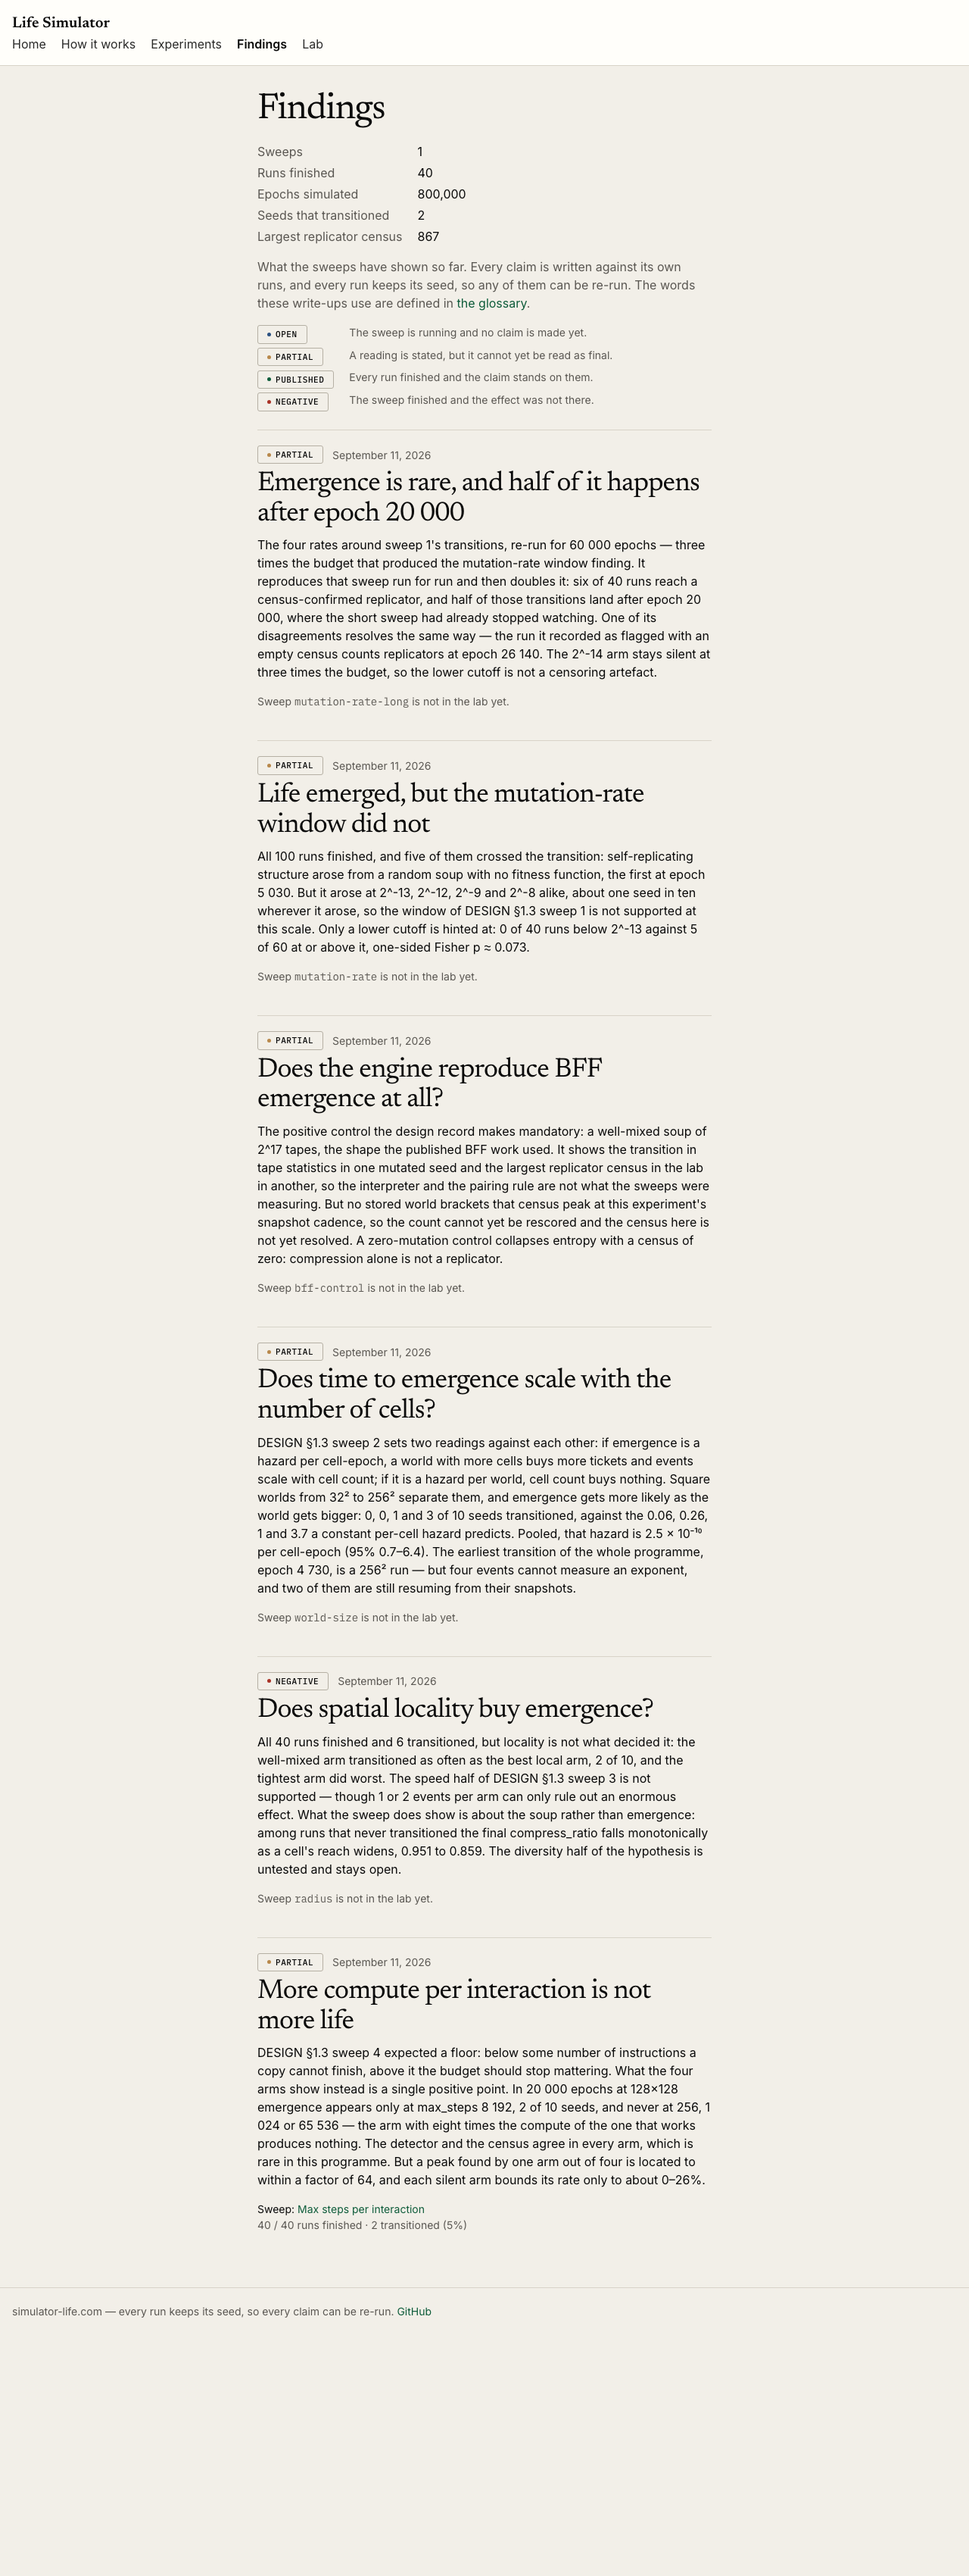
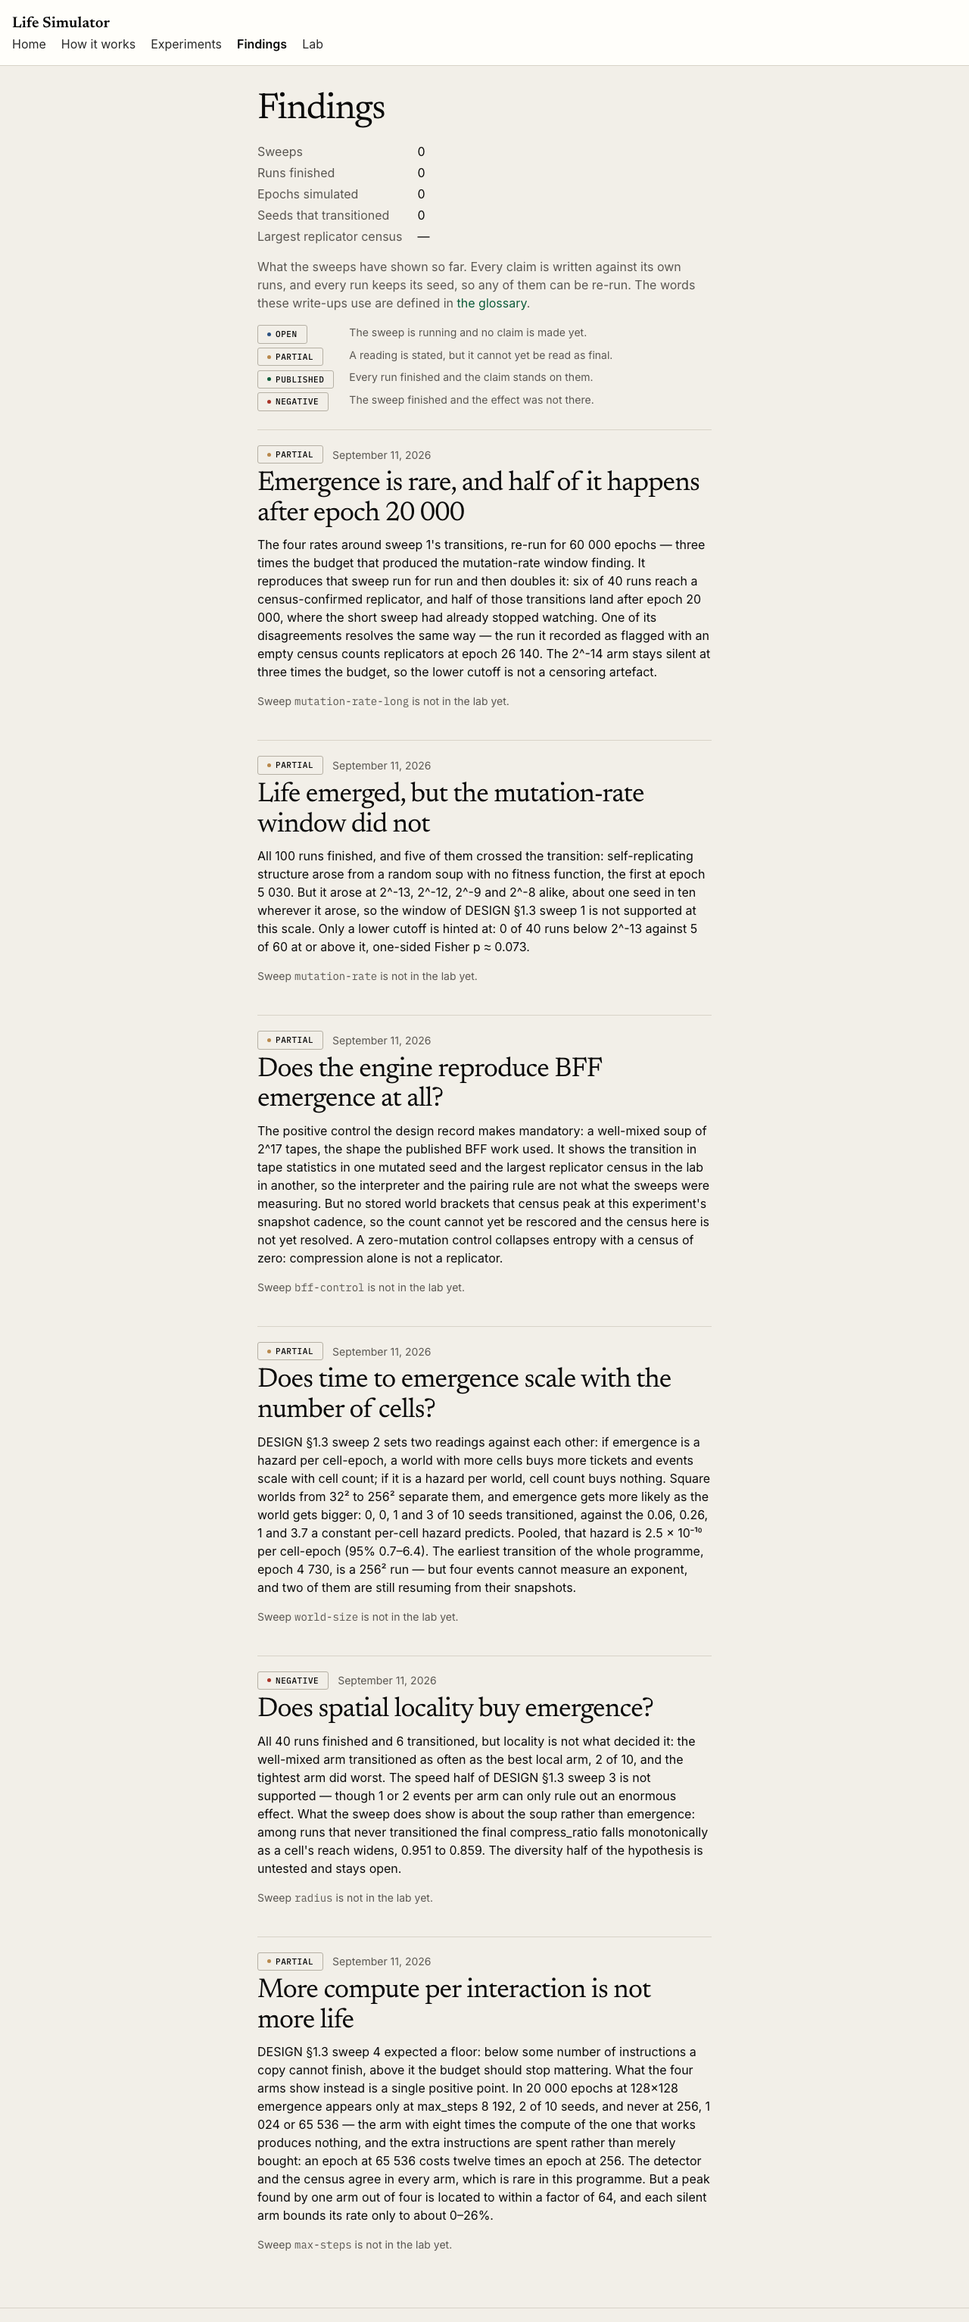
Read the max-steps cost from the sample stream instead of the log
The published cost paragraph attributed the 256 arm's throughput to the 65 536
arm and concluded from it that the budget was bought and not spent. It is spent:
measured between consecutive sample writes, with gaps over 300 s dropped and
under a comparable shared load, the arms run at 74.4, 62.6, 29.5 and 6.0 epochs
per second, so an epoch at 65 536 costs about twelve times an epoch at 256 and
the marginal price of a step barely moves over three octaves. Both transitioned
runs halved or worse at their own crossing under lower concurrency than before
it, which is the same fact from the other side.

The copy-rate blips were miscounted as ten and called evenly spread; there are
twelve and they climb with the budget, 1, 2, 4 and 5. Both figures now live in
the arm data the page tabulates, so the request specs read the prose against the
table rather than against itself.

The fortieth run has since finished, so the write-up no longer speaks of a run on
the clock and seed 5 is quoted final; partial now rests on the 20 000-epoch
censoring and the unresolved BFF control, as the world-size finding does.

Claude-Session: https://claude.ai/code/session_012YZTTdy66rDPQrPUahxLq9

Changed region(s): [[0.25, 0.0, 0.7188, 0.9605], [0.0, 0.0, 0.125, 0.031], [0.1562, 0.0, 0.2188, 0.031]]

diff --git a/spec/requests/findings_spec.rb b/spec/requests/findings_spec.rb
@@ -658,12 +658,39 @@ RSpec.describe "Findings", type: :request do
         expect(response.body).to include(finding_path("mutation-rate-window"))
       end
 
-      it "states the one arm's cost and refuses to invent the others" do
+      it "prices an epoch of every arm and makes the prose quote its own table" do
+        get finding_path(budget)
+
+        rows = response.parsed_body.css("table.data-table").last.css("tbody tr")
+        rates = rows.map { |row| row.css("td")[1].text.squish.to_f }
+
+        expect(rates).to eq([74.4, 62.6, 29.5, 6.0])
+        expect(rates).to eq(rates.sort.reverse)
+        expect(response.body.squish)
+          .to include("about #{(rates.first / rates.last).round} times what an epoch at 256 costs",
+                      "3.3, 2.5 and 2.3 microseconds per epoch",
+                      "the marginal price would fall away as the ceiling rose; it does not")
+      end
+
+      it "counts the copy-rate blips per arm and reads them as rising with the budget" do
+        get finding_path(budget)
+
+        blips = response.parsed_body.css("table.data-table").last.css("tbody tr")
+                        .map { |row| row.css("td").last.text.squish.to_i }
+
+        expect(blips).to eq([1, 2, 4, 5])
+        expect(response.body.squish)
+          .to include("#{blips.sum} of those 38 runs do show a",
+                      "4 of the 8 silent runs at 8 192",
+                      "not noise spread evenly over the arms")
+      end
+
+      it "reads the transitioned runs as the slow ones rather than as contention" do
         get finding_path(budget)
 
         expect(response.body.squish)
-          .to include("17.6 to 20.7 epochs per second", "1 001 to 1 134 seconds per run",
-                      "no honest per-epoch rate can be read for them here")
+          .to include("31.0 epochs per second before epoch 5 030 and 14.7 after it",
+                      "9.2 and 8.6 against 12.5 and 11.0")
       end
 
       it "names the finer grid as a proposal rather than a promise" do
@@ -702,6 +729,7 @@ RSpec.describe "Findings", type: :request do
           get finding_path(budget)
 
           expect(response.body.squish).to include("1 of the 40 runs have reached 20 000 epochs")
+            .and include("recorded once every one of the 40 had finished")
           expect(response.body).to include(%(class="chart-cited"), run_path(run))
         end
       end

diff --git a/app/models/findings/registry.rb b/app/models/findings/registry.rb
@@ -95,10 +95,12 @@ module Findings
                  "the four arms show instead is a single positive point. In 20 000 epochs " \
                  "at 128×128 emergence appears only at max_steps 8 192, 2 of 10 seeds, and " \
                  "never at 256, 1 024 or 65 536 — the arm with eight times the compute of " \
-                 "the one that works produces nothing. The detector and the census agree " \
-                 "in every arm, which is rare in this programme. But a peak found by one " \
-                 "arm out of four is located to within a factor of 64, and each silent arm " \
-                 "bounds its rate only to about 0–26%."
+                 "the one that works produces nothing, and the extra instructions are spent " \
+                 "rather than merely bought: an epoch at 65 536 costs twelve times an epoch " \
+                 "at 256. The detector and the census agree in every arm, which is rare in " \
+                 "this programme. But a peak found by one arm out of four is located to " \
+                 "within a factor of 64, and each silent arm bounds its rate only to " \
+                 "about 0–26%."
       )
     ].freeze
 

diff --git a/spec/models/findings/registry_spec.rb b/spec/models/findings/registry_spec.rb
@@ -133,12 +133,13 @@ RSpec.describe Findings::Registry do
     expect(described_class.for_experiment("unwritten")).to be_empty
   end
 
-  it "reads the max-steps sweep as partial while one of its runs is still on the clock" do
+  it "holds the finished max-steps sweep at partial, censored rather than complete" do
     finding = described_class.find("interaction-budget")
 
     expect(finding).to have_attributes(experiment_slug: "max-steps", status: :partial)
     expect(finding.summary).to include("emergence appears only at max_steps 8 192",
                                        "never at 256, 1 024 or 65 536",
+                                       "an epoch at 65 536 costs twelve times an epoch at 256",
                                        "located to within a factor of 64")
   end
 

diff --git a/docs/design_record.md b/docs/design_record.md
@@ -118,24 +118,34 @@ Dated entries that revise `docs/DESIGN.md`. Newest last.
   runs whose transition the guard would no longer accept, for a human to decide on.
 - 2026-09-11 — **`max-steps`, §1.3 item 4, read as non-monotone in the interaction budget.**
   Four budgets two octaves apart (2^8, 2^10, 2^13, 2^16) on a 128×128 world at mutation
-  rate 2^-13, 10 seeds each, 20 000 epochs; 39 of 40 terminal at the time of writing, the
-  fortieth already transitioned and census-confirmed. Emergence appears in one arm only:
-  8 192 steps, 2 of 10 seeds — seed 1 at epoch 5 030 (first cell 4 890, census peak 867 at
-  5 080, copy_rate peak 0.0474, entropy floor 4.85 bits, final compress_ratio 0.26) and
-  seed 5 at 7 000 (first cell 7 030, census peak 108 at 9 580, still running). **The floor
-  reading of item 4 is not supported**: 65 536 steps, eight times the compute of the only
-  arm that works, produces nothing, and 256 and 1 024 are not part-way to a collapse but
-  untouched soup (entropy never below 7.77 against a 7.94 baseline, final compress_ratio
-  0.921–0.984, 16 379–16 384 of 16 384 tapes distinct; single-cell copy_rate blips of
-  6.1e-05 in 10 runs never yield a replicator). Detector and census **agree in every arm** —
-  zero disagreements, unlike sweeps 1 and 2. The 8 192 arm is the engine's default budget,
-  so it repeats the `mutation-rate` and `mutation-rate-long` 2^-13 arms epoch for epoch and
-  peak for peak — a third determinism check, and a caveat: 30 runs of new evidence and 10
-  of a repeat, with the only events in the repeated arm. Statistics are thin: each 0/10 arm
-  bounds its rate only to ≈0–26% (one-sided 95% Clopper–Pearson 0.259) and 2/10 against
-  0/10 is Fisher one-sided p = 0.24, so the peak is located to within a factor of 64. Cost,
-  where the log can state it cleanly: the 65 536 arm ran 20 000 epochs at 17.6–20.7
-  epochs/s (wall 1 001–1 134 s); the other arms resumed from snapshots, which resets wall
-  time, so no clean rate exists for them. Proposed, not committed: a finer grid
-  2 048–32 768 at 20 seeds. Held at **partial** while a run remains on the clock; the
-  write-up reads its denominator from the database at render time.
+  rate 2^-13, 10 seeds each, 20 000 epochs, all 40 terminal. Emergence appears in one
+  arm only: 8 192 steps, 2 of 10 seeds — seed 1 at epoch 5 030 (first cell 4 890,
+  census peak 867 at 5 080, copy_rate peak 0.0474, entropy floor 4.85 bits, final
+  compress_ratio 0.26) and seed 5 at 7 000 (first cell 7 030, census peak 108 at 9 580,
+  final compress_ratio 0.054, 2 406 distinct tapes). **The floor reading of item 4 is
+  not supported**: 65 536 steps, eight times the compute of the only arm that works,
+  produces nothing, and 256 and 1 024 are not part-way to a collapse but untouched soup
+  (entropy never below 7.77 against a 7.94 baseline, final compress_ratio 0.921–0.984,
+  16 379–16 384 of 16 384 tapes distinct). Single-cell copy_rate blips (6.1e-05, one
+  copying interaction in the epoch's 16 384) appear in 12 of the 38 silent runs and
+  never yield a replicator, but they are **not evenly spread**: 1, 2, 4 and 5 runs from
+  the narrowest arm to the widest.
+  Detector and census **agree in every arm** — zero disagreements, unlike sweeps 1 and
+  2. The 8 192 arm is the engine's default budget, so it repeats the `mutation-rate`
+  and `mutation-rate-long` 2^-13 arms epoch for epoch and peak for peak — a third
+  determinism check, and a caveat: 30 runs of new evidence and 10 of a repeat, with the
+  only events in the repeated arm. Statistics are thin: each 0/10 arm bounds its rate
+  only to ≈0–26% (one-sided 95% Clopper–Pearson 0.259) and 2/10 against 0/10 is Fisher
+  one-sided p = 0.24, so the peak is located to within a factor of 64. **The budget is
+  spent, not merely bought.** Throughput measured from the sample stream (epochs
+  between two writes over the seconds between them, gaps over 300 s dropped, covering
+  18 000–19 900 epochs of each run) is 74.4, 62.6, 29.5 and 6.0 epochs/s from the
+  narrowest arm to the widest, under a comparable shared load of ~12, 12, 10 and 12
+  runs in flight — an epoch at 65 536 costs ~12× an epoch at 256, and the marginal
+  price is near constant at 3.3, 2.5 and 2.3 µs per extra step per epoch, which is what
+  interactions cut off by the ceiling look like. The two transitioned runs are their
+  arm's slowest and each slowed at its own crossing (31.0 → 14.7 and 32.5 → 2.6
+  epochs/s) under *lower* concurrency than before it. Proposed, not committed: a finer
+  grid 2 048–32 768 at 20 seeds. Held at **partial** — not for outstanding runs but
+  because every arm is censored at 20 000 epochs and the `bff-control` census is
+  unresolved; the write-up reads its denominator from the database at render time.
